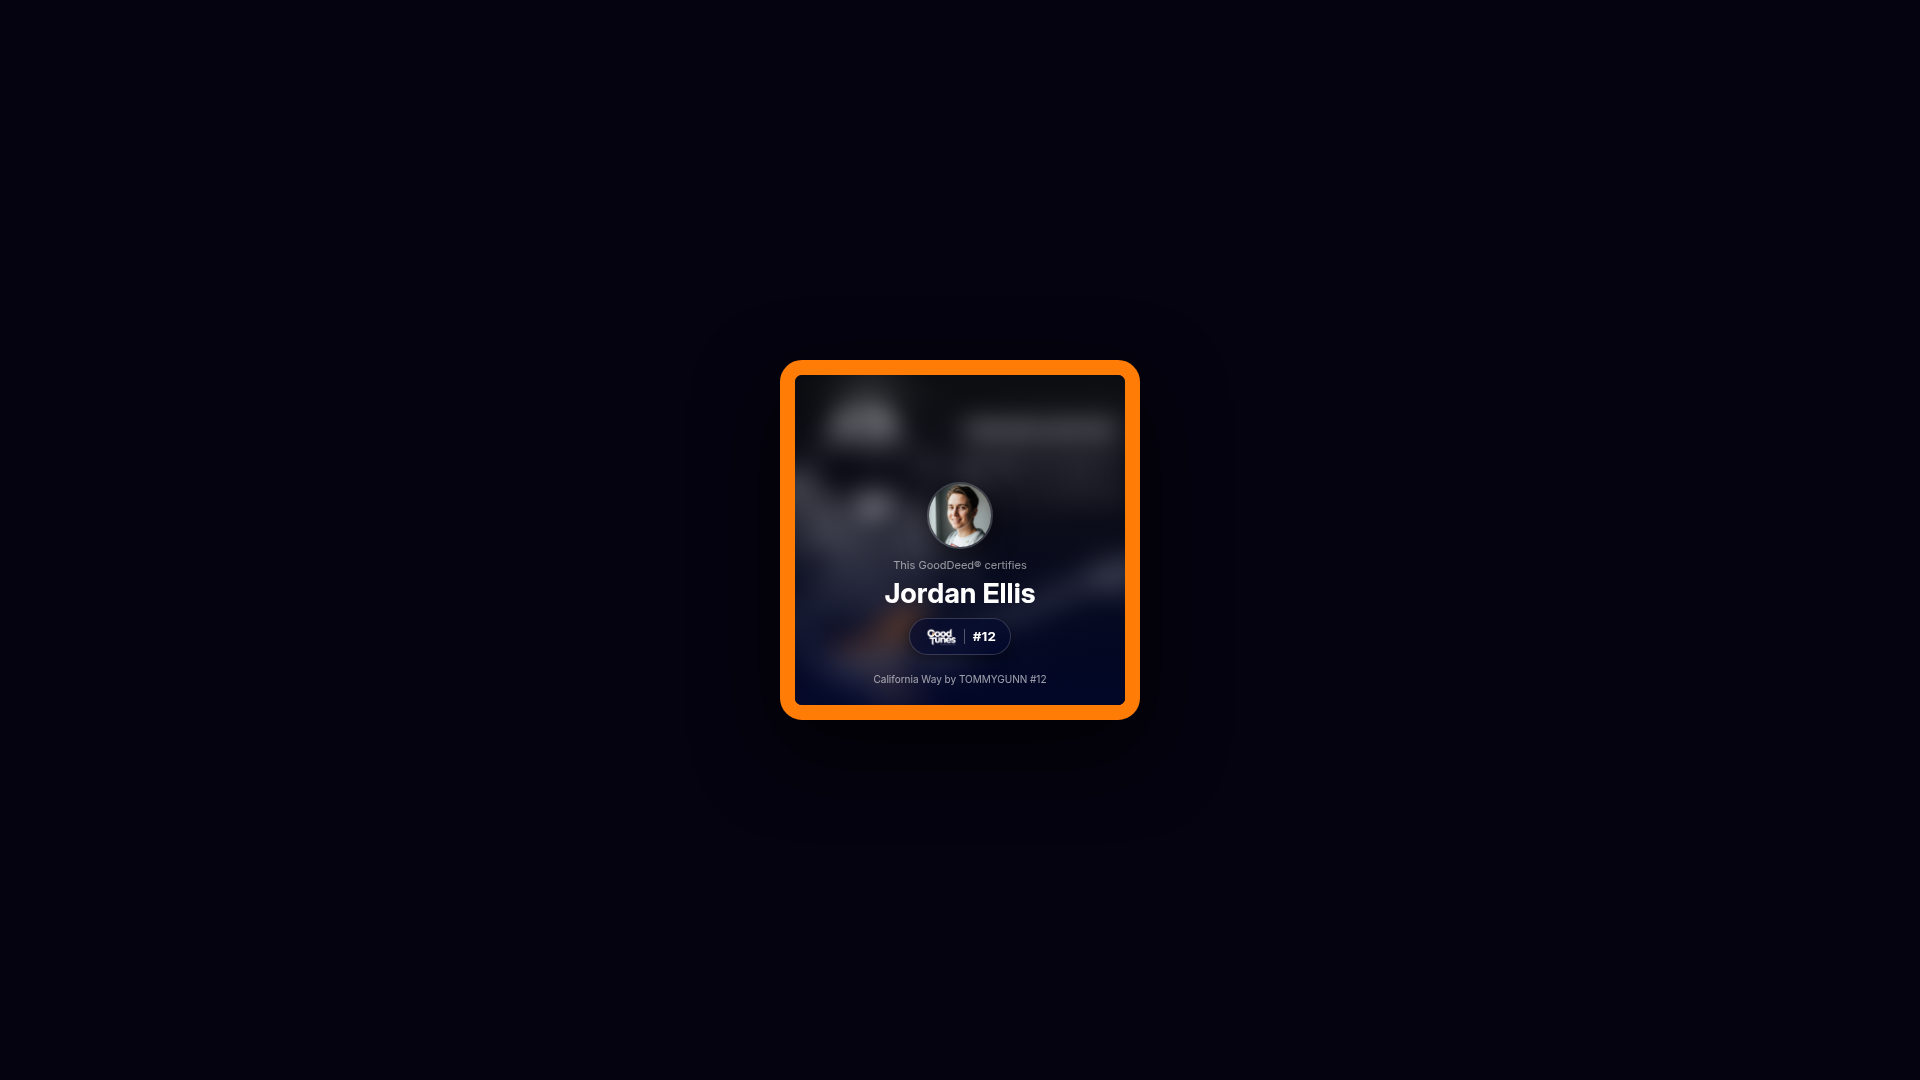
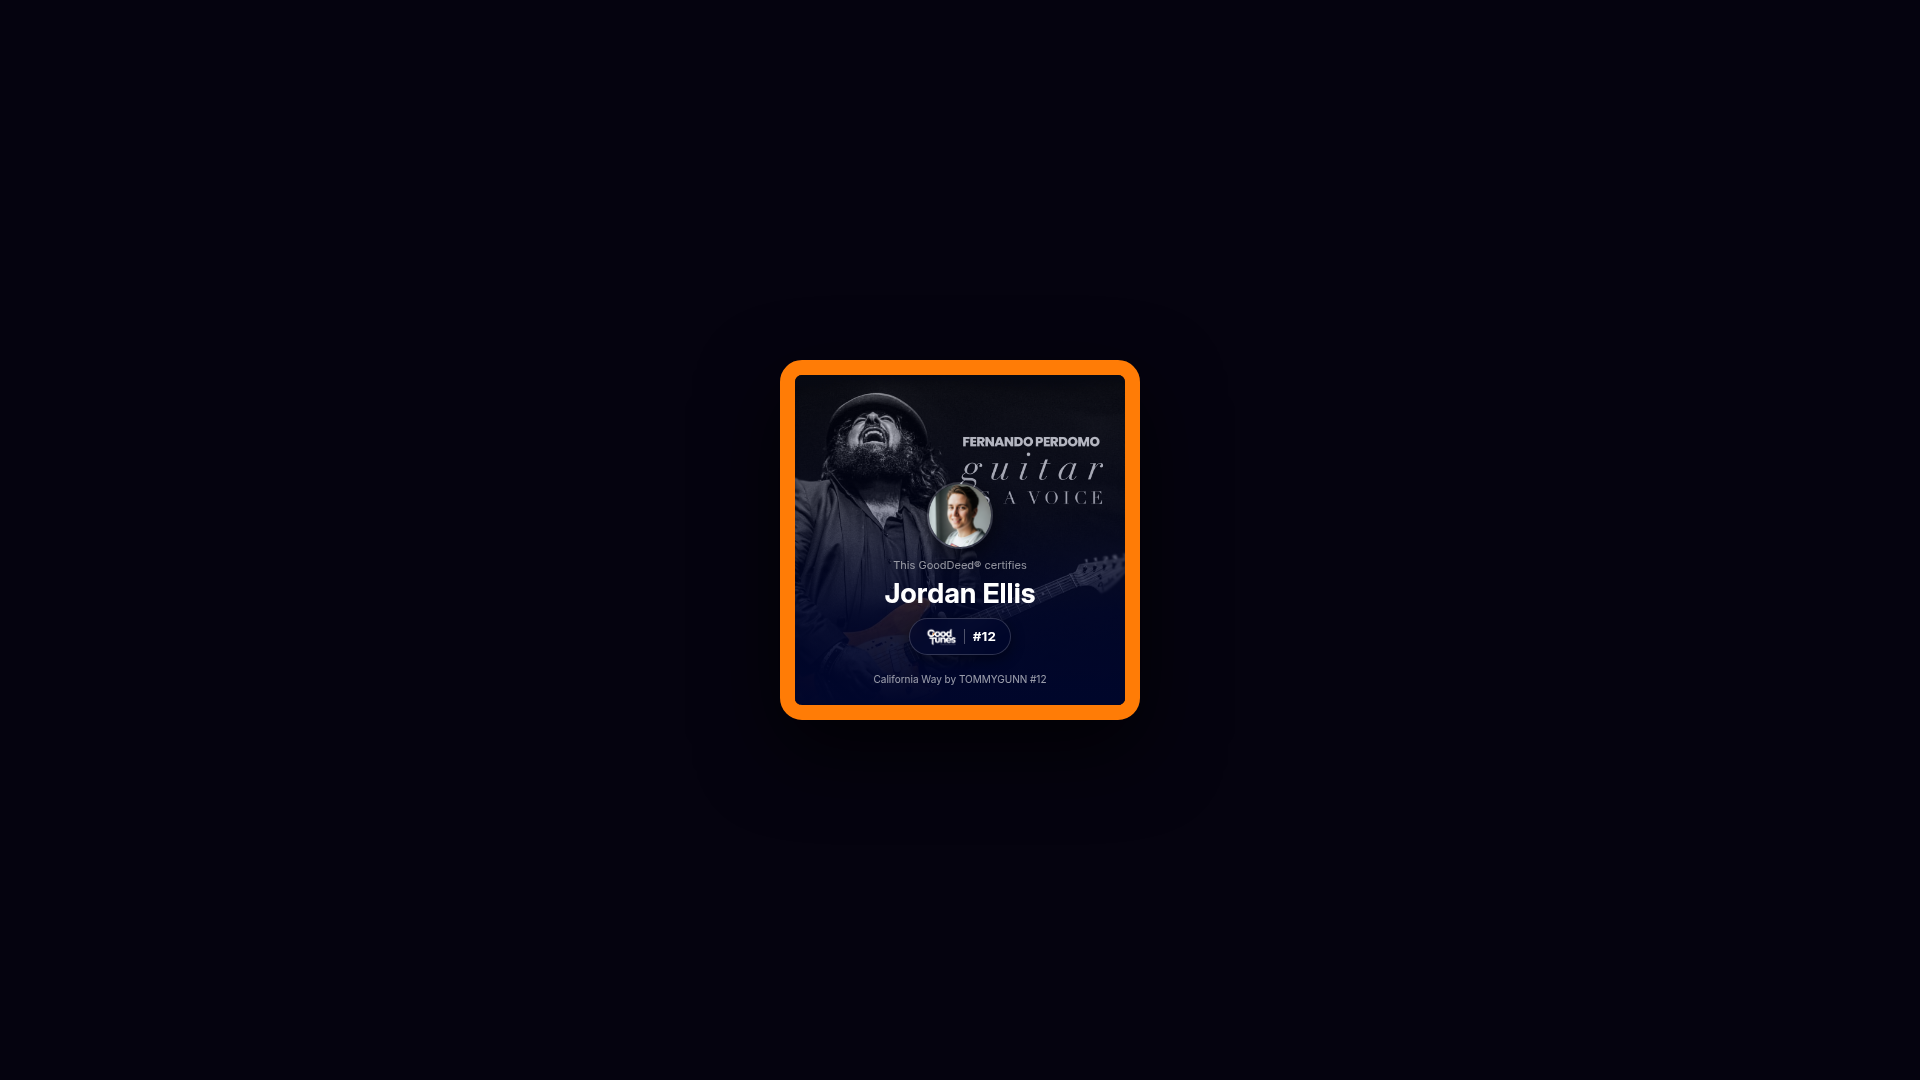
Add darker blend option for album art display
Introduce a new 'bleed-dark' background option to the SquareBordered component, enhancing the scrim gradient for richer visuals while maintaining album art visibility.

Replit-Commit-Author: Agent
Replit-Commit-Session-Id: 05c2a2e8-5b06-4806-a9d5-d257ed0dfe21
Replit-Commit-Checkpoint-Type: full_checkpoint
Replit-Commit-Event-Id: 7c49f258-59e2-46da-b4e8-e21e097867d9
Replit-Commit-Screenshot-Url: https://storage.googleapis.com/screenshot-production-us-central1/5293185b-8e25-4d4f-b8b2-dc5494b9adc6/05c2a2e8-5b06-4806-a9d5-d257ed0dfe21/o951gty
Replit-Helium-Checkpoint-Created: true

Changed region(s): [[0.4062, 0.3361, 0.5938, 0.5194], [0.4375, 0.55, 0.5, 0.6417], [0.5625, 0.5194, 0.5938, 0.55]]

diff --git a/artifacts/mockup-sandbox/src/components/mockups/gooddeed-cert/SquareBordered.tsx b/artifacts/mockup-sandbox/src/components/mockups/gooddeed-cert/SquareBordered.tsx
@@ -57,13 +57,17 @@ export function BorderedSquareCard({
   // "slab" = shipped look (art band fades into a solid navy lower half).
   // "bleed" = album art fills the whole card behind a lighter navy scrim, so the
   //           cover stays visible the whole way down (more transparent feel).
-  bg?: "slab" | "bleed";
+  // "bleed-dark" = same full-bleed SHARP art as "bleed", but a deeper navy scrim
+  //           so the whole card reads richer/darker and blends down into navy
+  //           like the slab — the album stays clearly visible, just dimmed.
+  bg?: "slab" | "bleed" | "bleed-dark";
   // Background blur in preview px (only meaningful for bg="bleed"). 0 = crisp.
   blur?: number;
 }) {
   const { ownerPhoto, album, ownerName, certNumStr } = data;
   const art = artProp ?? data.art;
-  const bleed = bg === "bleed";
+  const bleed = bg === "bleed" || bg === "bleed-dark";
+  const darkBleed = bg === "bleed-dark";
 
   // Preview at w = 360 with the same u = w/1080 scale the exporter uses.
   const w = 360;
@@ -75,8 +79,9 @@ export function BorderedSquareCard({
   // Lower, lighter scrim for the full-bleed treatment: the cover stays visible up
   // top and only deepens toward the bottom enough to keep the caption legible —
   // noticeably more transparent than the slab, which goes fully solid below 92%.
-  const bleedScrim =
-    "linear-gradient(180deg, rgba(0,6,43,0.10) 0%, rgba(0,6,43,0.30) 42%, rgba(0,6,43,0.68) 78%, rgba(0,6,43,0.90) 100%)";
+  const bleedScrim = darkBleed
+    ? "linear-gradient(180deg, rgba(0,6,43,0.18) 0%, rgba(0,6,43,0.40) 40%, rgba(0,6,43,0.86) 72%, rgba(0,6,43,1) 100%)"
+    : "linear-gradient(180deg, rgba(0,6,43,0.10) 0%, rgba(0,6,43,0.30) 42%, rgba(0,6,43,0.68) 78%, rgba(0,6,43,0.90) 100%)";
 
   return (
     <div
@@ -205,7 +210,8 @@ export function SquareBordered() {
   // Canvas A/B knobs: ?art=guitar|california|sample, ?bg=slab|bleed, ?blur=NN(px).
   const artName = params.get("art");
   const art = artName ? ART[artName] ?? undefined : undefined;
-  const bg = params.get("bg") === "bleed" ? "bleed" : "slab";
+  const bgParam = params.get("bg");
+  const bg = bgParam === "bleed" ? "bleed" : bgParam === "bleed-dark" ? "bleed-dark" : "slab";
   const blurRaw = Number(params.get("blur") ?? "0");
   const blur = Number.isFinite(blurRaw) ? Math.max(0, blurRaw) : 0;
   return (
